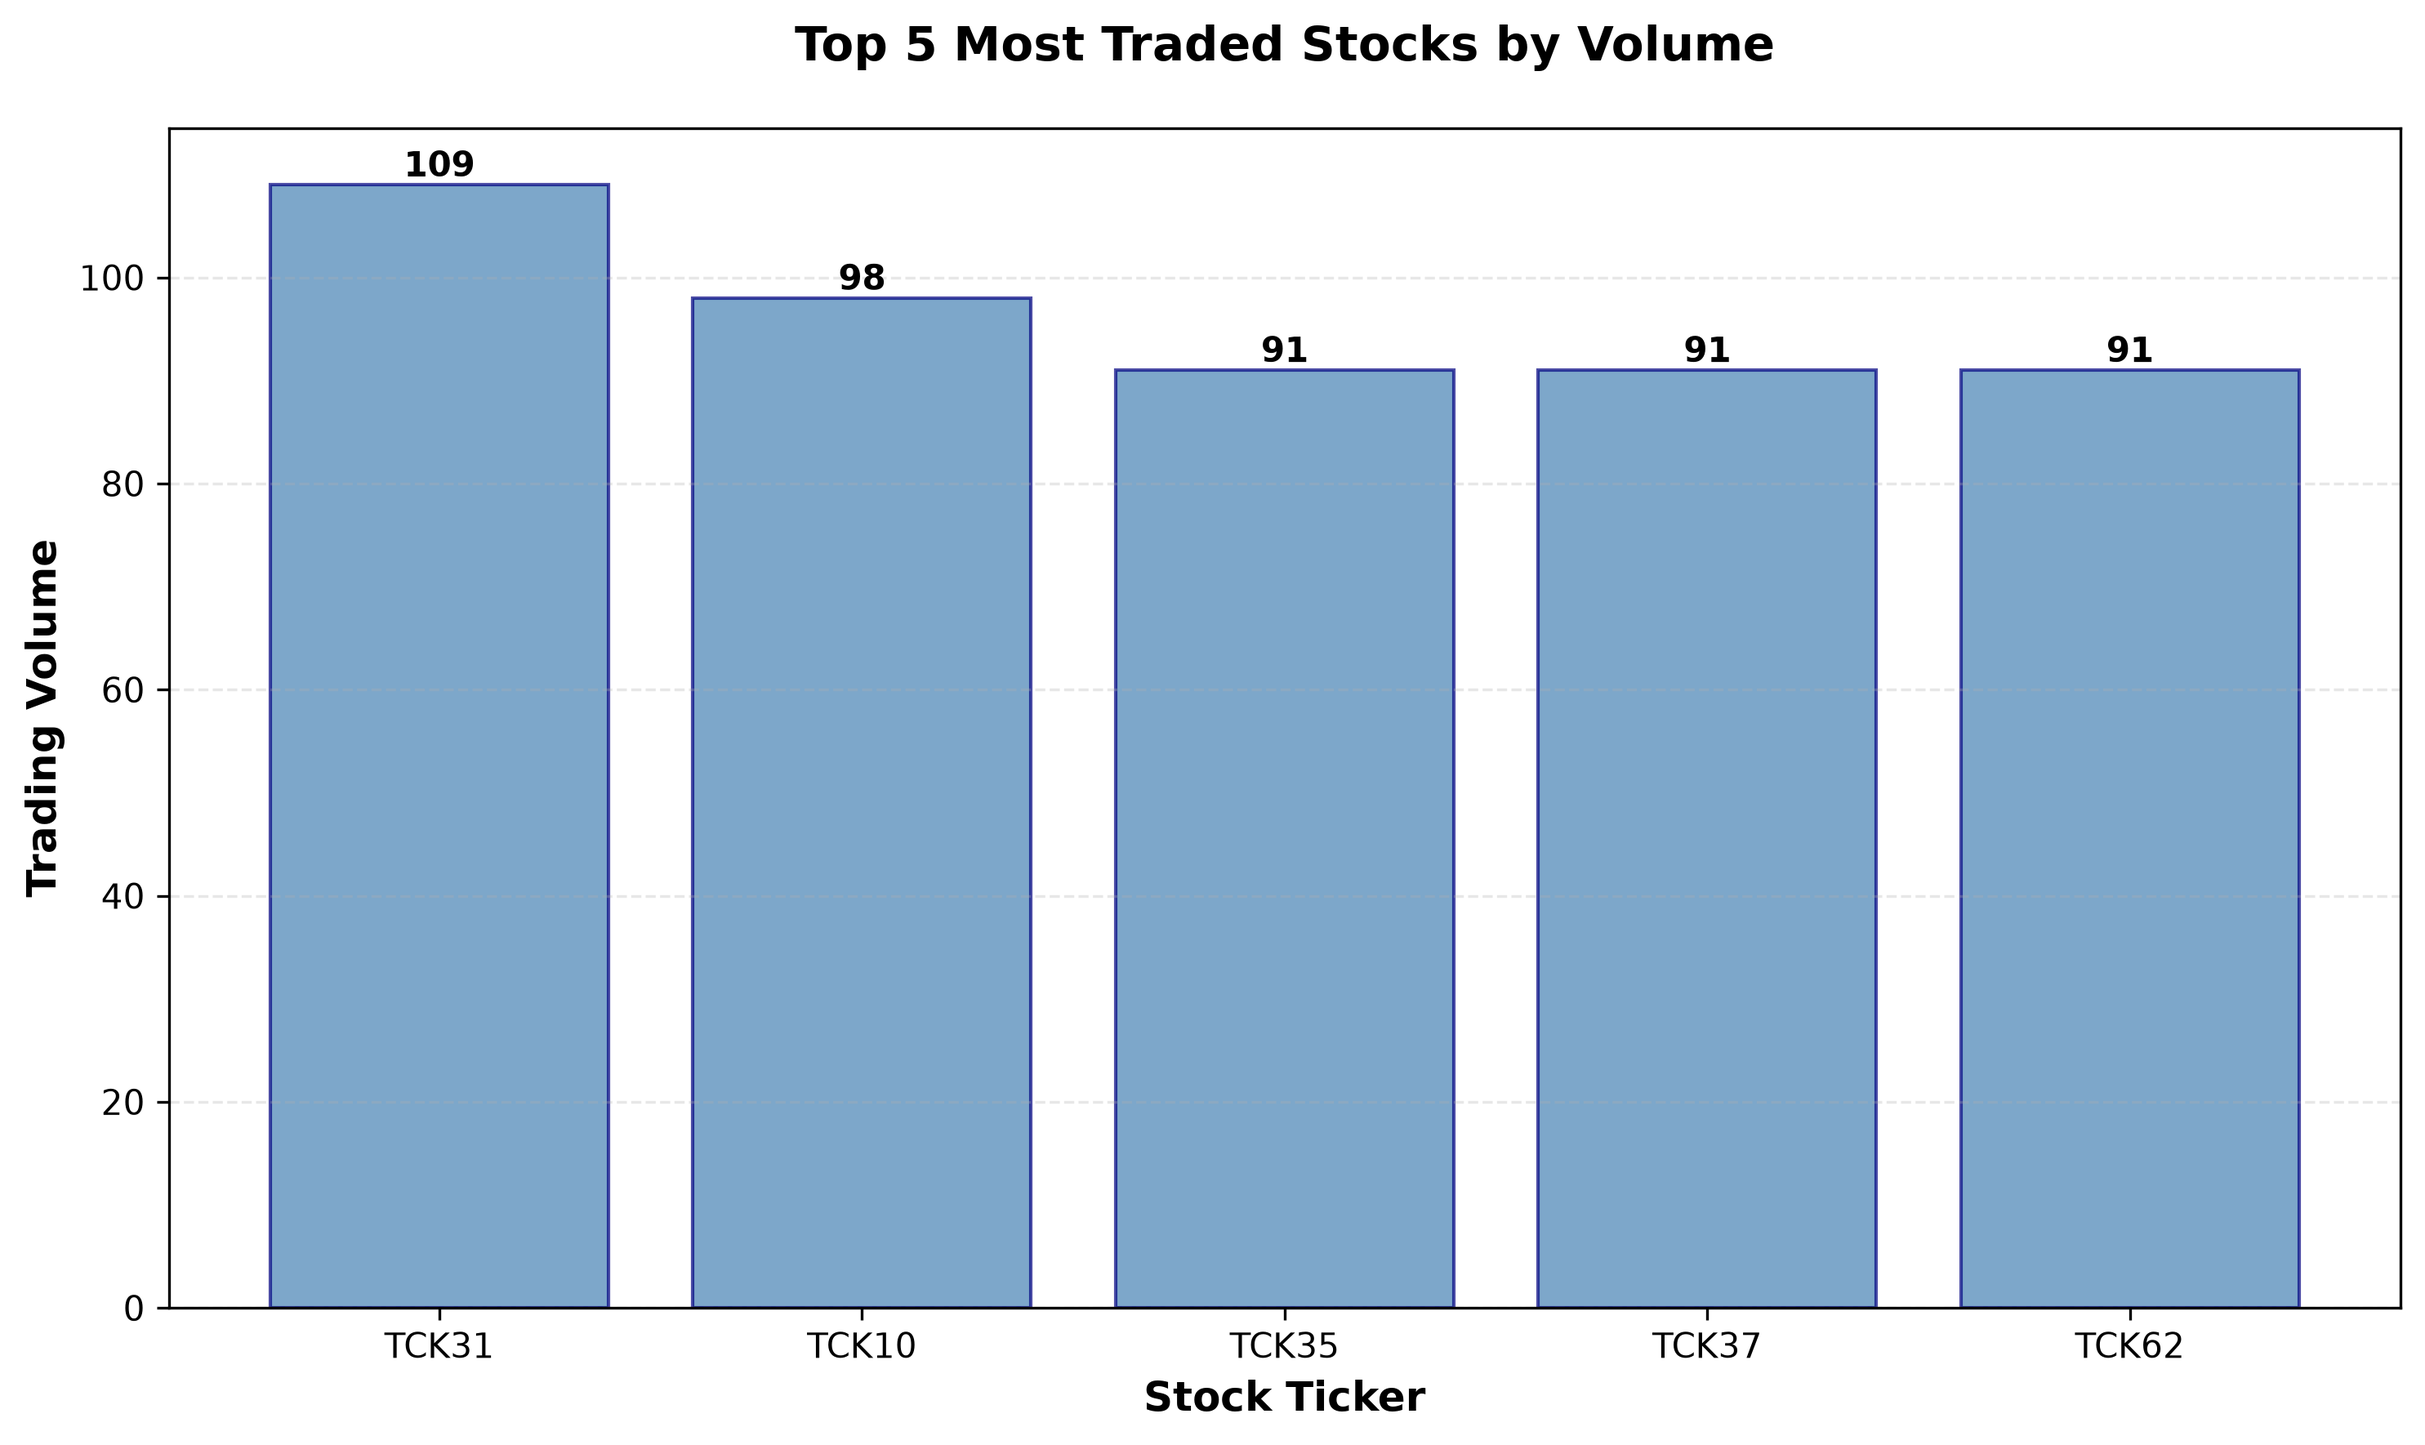
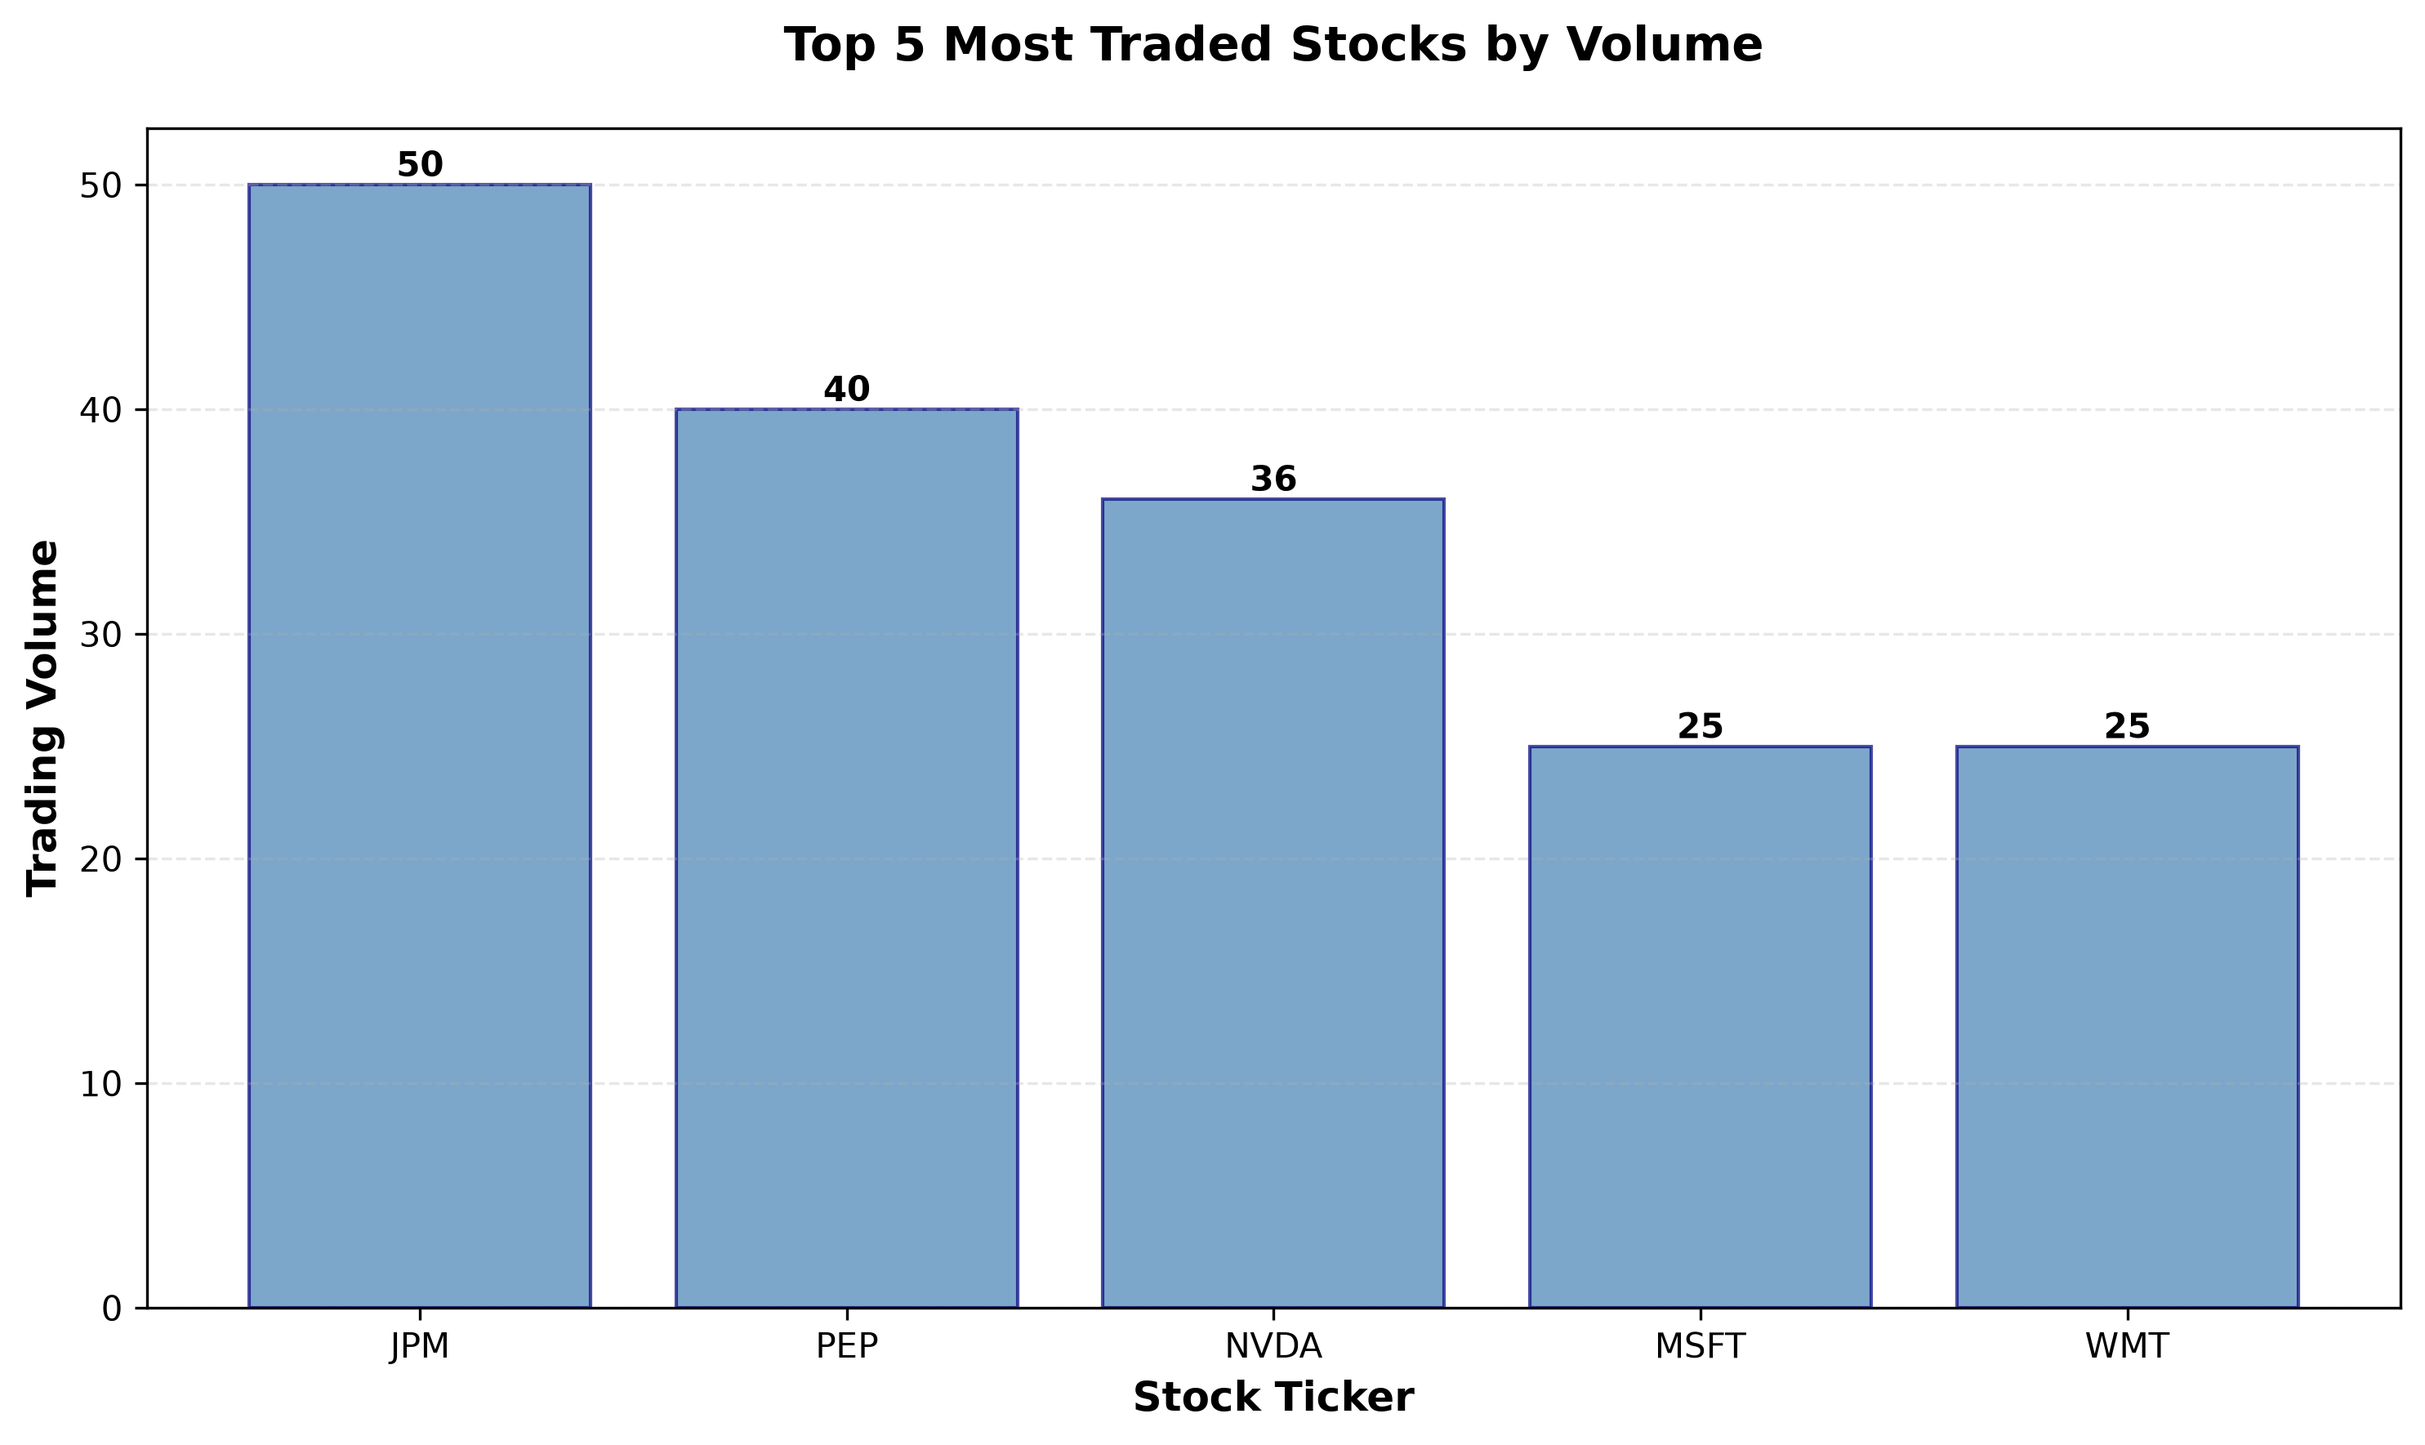
Testing with docker container

diff --git a/Python_analytics/Stock_volume.py b/Python_analytics/Stock_volume.py
@@ -1,4 +1,7 @@
 import os
+
+import matplotlib
+matplotlib.use('Agg')
 import pandas as pd
 import matplotlib.pyplot as plt
 from sqlalchemy import create_engine
@@ -14,54 +17,75 @@ DB_USERNAME = os.getenv('DB_USERNAME')
 DB_PASSWORD = os.getenv('DB_PASSWORD')
 
 # Database connection setup
-engine = create_engine(f'postgresql+psycopg2://{DB_USERNAME}:{DB_PASSWORD}@localhost:15432/leap_projectdb')
+engine = create_engine(f'postgresql+psycopg2://{DB_USERNAME}:{DB_PASSWORD}@localhost:25432/ribbit-dw')
 
 try:
-    # Query the database to get top 5 most traded stocks
+    # Count completed trades from the warehouse and rank stocks by quantity.
     sql_query = """
-    SELECT 
-        i.ticker,                         
-        SUM(o.quantity) as total_volume    -- Sum all quantities traded for each stock
-    FROM orders o                          -- Get data from orders table
-    JOIN instruments i ON o.instrument_id = i.instrument_id  -- Join with instruments to get ticker
-    GROUP BY i.ticker                      -- Group results by stock ticker
-    ORDER BY total_volume DESC             -- Sort by volume, highest first
-    LIMIT 5;                               -- Get only top 5
+    SELECT
+        ticker,
+        SUM(quantity) AS total_volume
+    FROM dw.ribbit_trade_activity
+    WHERE status = 'FILLED'
+            AND side = 'BUY'
+    GROUP BY ticker
+    ORDER BY total_volume DESC
+    LIMIT 20;
     """
 
     # Fetch the data from database
     df = pd.read_sql(sql_query, engine)
 
     # Print the data to console
-    print("Top 5 Most Traded Stocks:")
-    print("-" * 50)
+    print("Top 20 Most Traded Stocks:")
+    print("-" * 60)
     print(df.to_string(index=False))
-    print("-" * 50)
+    print("-" * 60)
 
-    # Create a bar chart
-    plt.figure(figsize=(10, 6))
-    bars = plt.bar(df['ticker'], df['total_volume'], color='steelblue', edgecolor='navy', alpha=0.7)
+    # Create a readable dark-mode chart for twenty tickers.
+    df = df.sort_values('total_volume')
+    figure, axis = plt.subplots(figsize=(12, 10), facecolor='#111827')
+    axis.set_facecolor('#111827')
+    bars = axis.barh(
+        df['ticker'],
+        df['total_volume'],
+        color='#b7f000',
+        edgecolor='#d9ff66',
+        linewidth=0.8,
+        height=0.72,
+    )
 
     # Add volume numbers on top of each bar
     for bar in bars:
-        height = bar.get_height()
-        plt.text(bar.get_x() + bar.get_width()/2., height,
-                f'{int(height):,}',
-                ha='center', va='bottom', fontsize=10, fontweight='bold')
+        width = bar.get_width()
+        axis.text(
+            width,
+            bar.get_y() + bar.get_height() / 2,
+            f'  {int(width):,}',
+            ha='left',
+            va='center',
+            color='#f9fafb',
+            fontsize=9,
+            fontweight='bold',
+        )
 
-    # Label the chart
-    plt.title('Top 5 Most Traded Stocks by Volume', fontsize=14, fontweight='bold', pad=20)
-    plt.xlabel('Stock Ticker', fontsize=12, fontweight='bold')
-    plt.ylabel('Trading Volume', fontsize=12, fontweight='bold')
-    plt.grid(axis='y', alpha=0.3, linestyle='--')
-    plt.tight_layout()
+    axis.set_title('Top 20 Most Traded Stocks', fontsize=18, fontweight='bold', color='#f9fafb', pad=20)
+    axis.set_xlabel('Completed Shares Traded', fontsize=12, color='#d1d5db', labelpad=12)
+    axis.set_ylabel('Stock Ticker', fontsize=12, color='#d1d5db', labelpad=12)
+    axis.tick_params(colors='#d1d5db', labelsize=10)
+    axis.grid(axis='x', color='#374151', alpha=0.8, linestyle='--')
+    axis.set_axisbelow(True)
+    axis.spines[['top', 'right', 'left']].set_visible(False)
+    axis.spines['bottom'].set_color('#4b5563')
+    axis.set_xlim(0, df['total_volume'].max() * 1.12)
+    figure.tight_layout()
 
     # Save and display the chart
     script_dir = os.path.dirname(os.path.abspath(__file__))
-    output_path = os.path.join(script_dir, 'top_5_traded_stocks.png')
-    plt.savefig(output_path, dpi=300, bbox_inches='tight')
+    output_path = os.path.join(script_dir, 'top_20_traded_stocks.png')
+    figure.savefig(output_path, dpi=300, bbox_inches='tight', facecolor=figure.get_facecolor())
     print(f"\nChart saved to {output_path}")
-    plt.show()
+    plt.close(figure)
 
 except Exception as e:
     print(f"Error: {e}")

diff --git a/Python_analytics/Stock_movers.py b/Python_analytics/Stock_movers.py
@@ -1,0 +1,115 @@
+import os
+
+import matplotlib
+matplotlib.use('Agg')
+import matplotlib.pyplot as plt
+import pandas as pd
+from dotenv import load_dotenv
+from sqlalchemy import create_engine
+
+
+load_dotenv()
+
+DB_USERNAME = os.getenv('DB_USERNAME')
+DB_PASSWORD = os.getenv('DB_PASSWORD')
+engine = create_engine(
+    f'postgresql+psycopg2://{DB_USERNAME}:{DB_PASSWORD}@localhost:25432/ribbit-dw'
+)
+
+
+sql_query = """
+WITH latest_instrument_activity AS (
+    SELECT
+        ticker,
+        price,
+        average_price,
+        ROW_NUMBER() OVER (
+            PARTITION BY instrument_id
+            ORDER BY quote_time DESC, order_created_at DESC, activity_id DESC
+        ) AS quote_rank
+    FROM dw.ribbit_trade_activity
+    WHERE price > 0
+      AND average_price > 0
+),
+market_movers AS (
+    SELECT
+        ticker,
+        price AS current_price,
+        average_price AS reference_price,
+        price - average_price AS price_change,
+        100.0 * (price - average_price)
+            / NULLIF(average_price, 0) AS percent_change
+    FROM latest_instrument_activity
+    WHERE quote_rank = 1
+)
+SELECT *
+FROM market_movers
+WHERE percent_change > 0
+ORDER BY percent_change DESC
+LIMIT 5;
+"""
+
+try:
+    movers = pd.read_sql(sql_query, engine)
+
+    if movers.empty:
+        raise RuntimeError('No gainers were found in the warehouse.')
+
+    print('Top 5 Gainers for the Day:')
+    print('-' * 60)
+    print(
+        movers[
+            ['ticker', 'current_price', 'reference_price', 'percent_change']
+        ].to_string(index=False)
+    )
+    print('-' * 60)
+
+    movers = movers.sort_values('percent_change', ascending=True)
+    figure, axis = plt.subplots(figsize=(11, 7), facecolor='#111827')
+    axis.set_facecolor('#111827')
+    bars = axis.bar(
+        movers['ticker'],
+        movers['percent_change'],
+        color='#b7f000',
+        edgecolor='#d9ff66',
+        linewidth=1.2,
+        width=0.62,
+    )
+
+    for bar, change in zip(bars, movers['percent_change']):
+        axis.text(
+            bar.get_x() + bar.get_width() / 2,
+            change + 2,
+            f'+{change:.2f}%',
+            ha='center',
+            va='bottom',
+            color='#f3f4f6',
+            fontweight='bold',
+        )
+
+    axis.set_title(
+        'Top 5 Gainers for the Day',
+        fontsize=18,
+        fontweight='bold',
+        color='#f9fafb',
+        pad=20,
+    )
+    axis.set_xlabel('Stock', color='#d1d5db', labelpad=12)
+    axis.set_ylabel('Gain from Average Price (%)', color='#d1d5db', labelpad=12)
+    axis.tick_params(colors='#d1d5db')
+    axis.grid(axis='y', color='#374151', alpha=0.8, linestyle='--')
+    axis.set_axisbelow(True)
+    axis.spines[['top', 'right', 'left']].set_visible(False)
+    axis.spines['bottom'].set_color('#4b5563')
+    axis.set_ylim(0, movers['percent_change'].max() * 1.18)
+    figure.tight_layout()
+
+    script_dir = os.path.dirname(os.path.abspath(__file__))
+    output_path = os.path.join(script_dir, 'top_5_market_movers.png')
+    plt.savefig(output_path, dpi=300, bbox_inches='tight')
+    plt.close()
+    print(f'Chart saved to {output_path}')
+
+except Exception as error:
+    print(f'Error: {error}')
+    raise

diff --git a/src/main/services/WarehouseAnalyticsService.java b/src/main/services/WarehouseAnalyticsService.java
@@ -1,0 +1,64 @@
+package services;
+
+import dto.response.TopBoughtStockResponse;
+import org.springframework.beans.factory.annotation.Value;
+import org.springframework.stereotype.Service;
+
+import java.sql.Connection;
+import java.sql.DriverManager;
+import java.sql.PreparedStatement;
+import java.sql.ResultSet;
+import java.sql.SQLException;
+import java.util.ArrayList;
+import java.util.List;
+
+@Service
+public class WarehouseAnalyticsService {
+    private static final String TOP_BOUGHT_STOCKS_SQL = """
+        SELECT ticker, SUM(quantity) AS total_volume
+        FROM dw.ribbit_trade_activity
+        WHERE status = 'FILLED'
+          AND side = 'BUY'
+        GROUP BY ticker
+        ORDER BY total_volume DESC
+        LIMIT 20
+        """;
+
+    private final String warehouseUrl;
+    private final String warehouseUsername;
+    private final String warehousePassword;
+
+    public WarehouseAnalyticsService(
+        @Value("${warehouse.datasource.url}") String warehouseUrl,
+        @Value("${warehouse.datasource.username}") String warehouseUsername,
+        @Value("${warehouse.datasource.password}") String warehousePassword
+    ) {
+        this.warehouseUrl = warehouseUrl;
+        this.warehouseUsername = warehouseUsername;
+        this.warehousePassword = warehousePassword;
+    }
+
+    public List<TopBoughtStockResponse> getTopBoughtStocks() {
+        List<TopBoughtStockResponse> stocks = new ArrayList<>();
+
+        try (
+            Connection connection = DriverManager.getConnection(
+                warehouseUrl,
+                warehouseUsername,
+                warehousePassword
+            );
+            PreparedStatement statement = connection.prepareStatement(TOP_BOUGHT_STOCKS_SQL);
+            ResultSet results = statement.executeQuery()
+        ) {
+            while (results.next()) {
+                stocks.add(new TopBoughtStockResponse(
+                    results.getString("ticker"),
+                    results.getLong("total_volume")
+                ));
+            }
+            return stocks;
+        } catch (SQLException exception) {
+            throw new IllegalStateException("Unable to load warehouse analytics", exception);
+        }
+    }
+}

diff --git a/src/main/services/AdminService.java b/src/main/services/AdminService.java
@@ -7,6 +7,7 @@ import repos.AdminRepo;
 import repos.UserRepo;
 import dto.response.OrderAdminResponse;
 import dto.response.AdminLoginResponse;
+import dto.response.TopBoughtStockResponse;
 import exception.InvalidCredentialsException;
 import exception.AdminRoleNotAssignedException;
 import entities.AdminEntity;
@@ -20,6 +21,7 @@ public class AdminService {
     private AdminRepo repo;
     private UserRepo userRepo;
     private PasswordEncoder passwordEncoder;
+    private WarehouseAnalyticsService warehouseAnalyticsService;
 
     private static final Map<String, String> TOKEN_ROLES = Map.of(
         "SUPER ADMIN", "superadmin",
@@ -27,10 +29,16 @@ public class AdminService {
         "REPORTER/ANALYST", "analyst"
     );
 
-    public AdminService(AdminRepo repo, UserRepo userRepo, PasswordEncoder passwordEncoder){
+    public AdminService(
+        AdminRepo repo,
+        UserRepo userRepo,
+        PasswordEncoder passwordEncoder,
+        WarehouseAnalyticsService warehouseAnalyticsService
+    ){
         this.repo = repo;
         this.userRepo = userRepo;
         this.passwordEncoder = passwordEncoder;
+        this.warehouseAnalyticsService = warehouseAnalyticsService;
     }
 
     public AdminEntity saveAdmin(AdminEntity entity){
@@ -74,5 +82,9 @@ public class AdminService {
 
     public List<UserEntity> getAllUsers() {
         return userRepo.findAll();
+    }
+
+    public List<TopBoughtStockResponse> getTopBoughtStocks() {
+        return warehouseAnalyticsService.getTopBoughtStocks();
     }
 }

diff --git a/src/main/controllers/AdminController.java b/src/main/controllers/AdminController.java
@@ -22,6 +22,7 @@ import io.swagger.v3.oas.annotations.tags.Tag;
 import org.springframework.security.crypto.password.PasswordEncoder;
 import java.util.List;
 import dto.response.AdminLoginResponse;
+import dto.response.TopBoughtStockResponse;
 
 @Tag(name = "Admin")  // description and display order: OpenApiConfig
 @RestController
@@ -119,5 +120,12 @@ public class AdminController {
     @GetMapping("/users")
     public List<UserEntity> getAllUsers() {
         return service.getAllUsers();
+    }
+
+    @Operation(summary = "Retrieve the top bought stocks from the data warehouse")
+    @ApiResponse(responseCode = "200", description = "Successfully retrieved top bought stocks")
+    @GetMapping("/analytics/top-bought")
+    public List<TopBoughtStockResponse> getTopBoughtStocks() {
+        return service.getTopBoughtStocks();
     }
 }

diff --git a/src/test/ApiDocsTest.java b/src/test/ApiDocsTest.java
@@ -50,6 +50,7 @@ public class ApiDocsTest {
         Map.entry("get", "/user/accounts"),
         Map.entry("get", "/instruments"),
         Map.entry("get", "/instruments/bars"),
+        Map.entry("post", "/instruments/forex/price"),
         Map.entry("get", "/positions/{id}"),
         Map.entry("post", "/positions"),
         Map.entry("get", "/positions/account/{accountId}"),
@@ -61,6 +62,7 @@ public class ApiDocsTest {
         Map.entry("get", "/admin/accounts"),
         Map.entry("get", "/admin/accounts/{userId}"),
         Map.entry("get", "/admin/users"),
+        Map.entry("get", "/admin/analytics/top-bought"),
         Map.entry("patch", "/user"),
         Map.entry("get", "/user"),
         Map.entry("post", "/user"),

diff --git a/src/main/dto/response/TopBoughtStockResponse.java b/src/main/dto/response/TopBoughtStockResponse.java
@@ -1,0 +1,4 @@
+package dto.response;
+
+public record TopBoughtStockResponse(String ticker, Long totalVolume) {
+}
